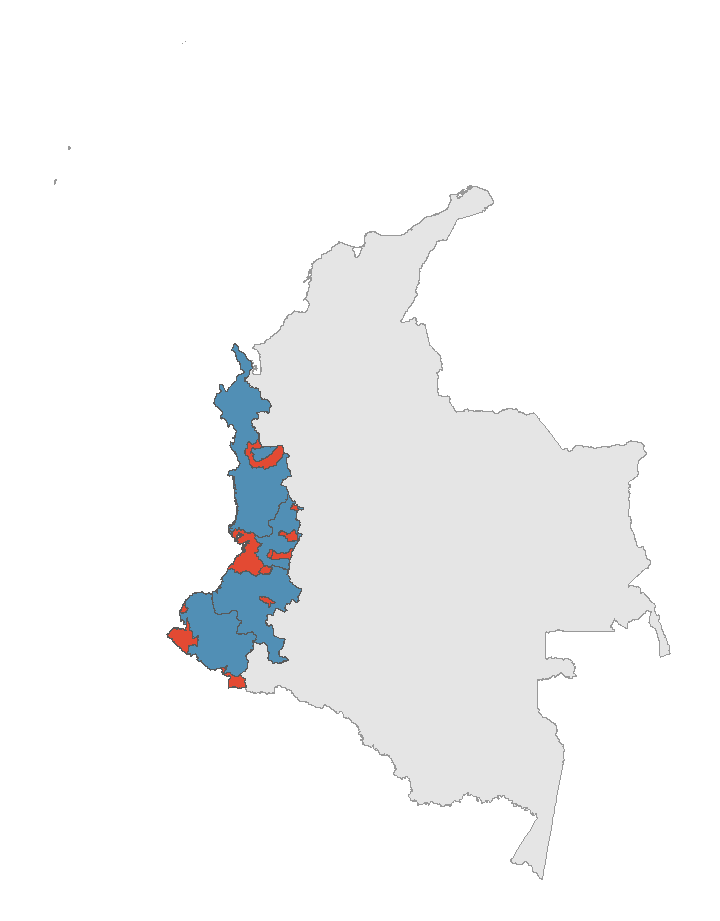
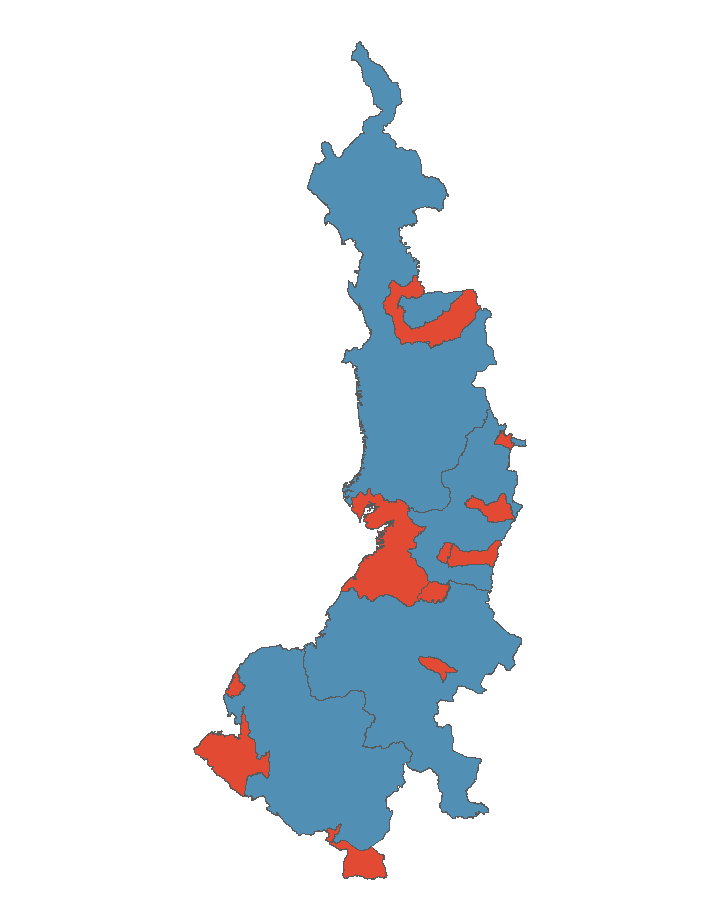
Added line plots. Moving along.

diff --git a/docs/index.html b/docs/index.html
@@ -176,8 +176,10 @@ html, body {
 </div><!--/.navbar-->
 
 <img class="mobile-figure" data-mobile-figure-id=fig1 src="index_files/figure-html/unnamed-chunk-3-1.mb.png" />
-<img class="mobile-figure" data-mobile-figure-id=fig2 src="index_files/figure-html/unnamed-chunk-6-1.mb.png" />
-<img class="mobile-figure" data-mobile-figure-id=fig3 src="index_files/figure-html/unnamed-chunk-9-1.mb.png" />
+<img class="mobile-figure" data-mobile-figure-id=fig2 src="index_files/figure-html/unnamed-chunk-5-1.mb.png" />
+<img class="mobile-figure" data-mobile-figure-id=fig3 src="index_files/figure-html/unnamed-chunk-7-1.mb.png" />
+<img class="mobile-figure" data-mobile-figure-id=fig4 src="index_files/figure-html/unnamed-chunk-9-1.mb.png" />
+<img class="mobile-figure" data-mobile-figure-id=fig5 src="index_files/figure-html/unnamed-chunk-11-1.mb.png" />
 <script type="text/javascript">
 
 
@@ -1888,6 +1890,10 @@ development plans.</p>
 <h3 class="no-padding">Chart A</h3>
 <p>(Information of the purposes of the assessments, the scope and
 limitations, and other caveats to interpret the data appropriately)</p>
+<p>NOTE: I am still learning how to map data! The map below is intended
+to be: - Zoomed in, to focus on the specific region - Interactive (can
+hover to get name and number of students evaluated per grade level) -
+Labeled per region</p>
 <div class="knitr-options" data-fig-width="576" data-fig-height="460">
 
 </div>
@@ -1931,52 +1937,59 @@ Geodetic CRS:  WGS 84</code></pre>
 </div>
 <div id="exploring-etc" class="section level1">
 <h1>Exploring ETC</h1>
-<div id="row" class="section level2" data-height="10,"
-data-orientation="columns," layout="scroll">
+<div id="row" class="section level2" data-orientation="columns,"
+layout="scroll">
 <h2>Row</h2>
-<div id="average-historical-scores-math" class="section level3">
-<h3>Average historical scores, MATH</h3>
+<div id="average-historical-scores---math" class="section level3">
+<h3>Average historical scores - MATH</h3>
 <div class="knitr-options" data-fig-width="576" data-fig-height="460">
 
 </div>
+<div class="knitr-options" data-fig-width="576" data-fig-height="460">
+
 </div>
-<div id="percentage-of-students-at-proficiency-levels-math"
+<p><img src="index_files/figure-html/unnamed-chunk-5-1.png" width="576" data-figure-id=fig2 /></p>
+</div>
+<div id="percentage-of-students-at-proficiency-levels---math"
 class="section level3">
-<h3>Percentage of students at proficiency levels, MATH</h3>
+<h3>Percentage of students at proficiency levels - MATH</h3>
 <div class="knitr-options" data-fig-width="576" data-fig-height="460">
 
 </div>
 <div class="knitr-options" data-fig-width="576" data-fig-height="460">
 
 </div>
-<p><img src="index_files/figure-html/unnamed-chunk-6-1.png" width="576" data-figure-id=fig2 /></p>
+<p><img src="index_files/figure-html/unnamed-chunk-7-1.png" width="576" data-figure-id=fig3 /></p>
 </div>
 </div>
-<div id="row-1" class="section level2" data-height="10,"
-data-orientation="columns">
+<div id="row-1" class="section level2" data-orientation="columns">
 <h2>Row</h2>
-<div id="average-historical-scores-reading" class="section level3">
-<h3>Average historical scores, READING</h3>
+<div id="average-historical-scores---reading" class="section level3">
+<h3>Average historical scores - READING</h3>
 <div class="knitr-options" data-fig-width="576" data-fig-height="460">
 
 </div>
+<div class="knitr-options" data-fig-width="576" data-fig-height="460">
+
 </div>
-<div id="percentage-of-students-at-proficiency-levels-reading"
+<p><img src="index_files/figure-html/unnamed-chunk-9-1.png" width="576" data-figure-id=fig4 /></p>
+</div>
+<div id="percentage-of-students-at-proficiency-levels---reading"
 class="section level3">
-<h3>Percentage of students at proficiency levels, READING</h3>
+<h3>Percentage of students at proficiency levels - READING</h3>
 <div class="knitr-options" data-fig-width="576" data-fig-height="460">
 
 </div>
 <div class="knitr-options" data-fig-width="576" data-fig-height="460">
 
 </div>
-<p><img src="index_files/figure-html/unnamed-chunk-9-1.png" width="576" data-figure-id=fig3 /></p>
+<p><img src="index_files/figure-html/unnamed-chunk-11-1.png" width="576" data-figure-id=fig5 /></p>
 </div>
 </div>
 <div id="row-2" class="section level2 tabset" data-height="20">
 <h2 class="tabset">Row</h2>
-<div id="natural-cience" class="section level3">
-<h3>Natural Cience</h3>
+<div id="natural-science" class="section level3">
+<h3>Natural Science</h3>
 <p>(some grade levels will display the assessments for natural science,
 though only for selected years)</p>
 <div class="knitr-options" data-fig-width="576" data-fig-height="460">
